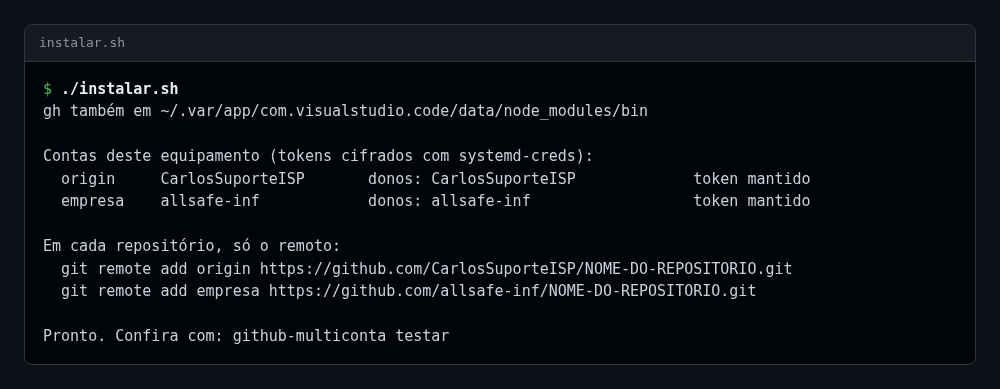
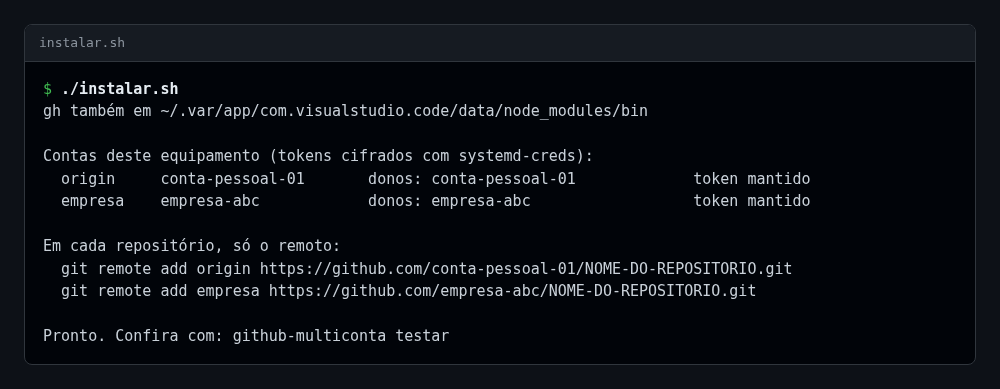
docs: fotos com contas de exemplo e visualizadores sem caminho local
As fotos do terminal passam a mostrar nomes de conta de exemplo e nenhum nome de
repositório; os visualizadores deixam de trazer o caminho local de quem os gerou;
o comando de instalação não cita conta.

Testado: ./testes/testar.sh (108 ok, 0 falha); fotos regeradas da saída real e conferidas uma a uma.

Changed region(s): [[0.155, 0.4319, 0.31, 0.5553], [0.434, 0.4319, 0.589, 0.5553], [0.434, 0.6787, 0.589, 0.7712]]

diff --git a/doc/aplicacao/imagens/visualizador.html b/doc/aplicacao/imagens/visualizador.html
@@ -4,7 +4,7 @@
 <meta charset="utf-8">
 <meta name="viewport" content="width=device-width, initial-scale=1">
 <title>Visualizador de diagramas e imagens</title>
-<!-- Gerado por "/home/carlos/code/Regras AI Sendo Executadas/padrao-diagramas/renderizar.sh". Não edite à mão: a lista é reescrita a cada renderização. -->
+<!-- Gerado por padrao-diagramas/renderizar.sh. Não edite à mão: a lista é reescrita a cada renderização. -->
 <style>
 /* Fundo escuro é o padrão; o botão de tema troca para o claro. */
 :root { --fundo: #0d1117; --painel: #161b22; --borda: #30363d; --texto: #e6edf3; --apagado: #8b949e; --botao: #21262d; --sobre: #30363d; }

diff --git a/doc/diagramas/visualizador.html b/doc/diagramas/visualizador.html
@@ -4,7 +4,7 @@
 <meta charset="utf-8">
 <meta name="viewport" content="width=device-width, initial-scale=1">
 <title>Visualizador de diagramas e imagens</title>
-<!-- Gerado por "/home/carlos/code/Regras AI Sendo Executadas/padrao-diagramas/renderizar.sh". Não edite à mão: a lista é reescrita a cada renderização. -->
+<!-- Gerado por padrao-diagramas/renderizar.sh. Não edite à mão: a lista é reescrita a cada renderização. -->
 <style>
 /* Fundo escuro é o padrão; o botão de tema troca para o claro. */
 :root { --fundo: #0d1117; --painel: #161b22; --borda: #30363d; --texto: #e6edf3; --apagado: #8b949e; --botao: #21262d; --sobre: #30363d; }

diff --git a/doc/imagens/visualizador.html b/doc/imagens/visualizador.html
@@ -4,7 +4,7 @@
 <meta charset="utf-8">
 <meta name="viewport" content="width=device-width, initial-scale=1">
 <title>Visualizador de diagramas e imagens</title>
-<!-- Gerado por "/home/carlos/code/Regras AI Sendo Executadas/padrao-diagramas/renderizar.sh". Não edite à mão: a lista é reescrita a cada renderização. -->
+<!-- Gerado por padrao-diagramas/renderizar.sh. Não edite à mão: a lista é reescrita a cada renderização. -->
 <style>
 /* Fundo escuro é o padrão; o botão de tema troca para o claro. */
 :root { --fundo: #0d1117; --painel: #161b22; --borda: #30363d; --texto: #e6edf3; --apagado: #8b949e; --botao: #21262d; --sobre: #30363d; }

diff --git a/doc/aplicacao/README.md b/doc/aplicacao/README.md
@@ -4,7 +4,7 @@
 
 ## 💡 Em poucas palavras
 
-Cada comando do kit, com a foto da saída real no terminal e a explicação do que ele faz. Nenhum deles mostra token.
+Cada comando do kit, com a foto da saída real no terminal e a explicação do que ele faz. Nenhum deles mostra token. Nas fotos, os nomes das contas foram trocados por nomes de exemplo (`conta-pessoal-01` e `empresa-abc`).
 
 <details>
 <summary>Sumário — clique para expandir</summary>
@@ -21,7 +21,7 @@ Cada comando do kit, com a foto da saída real no terminal e a explicação do q
 
 <a href="imagens/instalar.png"><img src="imagens/instalar.png" alt="Saída do instalar.sh com as duas contas, os tokens mantidos e o comando de remoto de cada conta" width="100%"></a>
 
-<sub><b>v0.2.0</b> · <code>./instalar.sh</code> · captura de 2026-10-09</sub>
+<sub><b>v0.2.1</b> · <code>./instalar.sh</code> · captura de 2026-10-09</sub>
 
 **Para que serve:** ler o `.env` e o `.secrets/`, guardar cada token cifrado e instalar os comandos. Pode ser rodado de novo sempre que uma conta ou um token mudar.
 
@@ -50,7 +50,7 @@ Cada comando do kit, com a foto da saída real no terminal e a explicação do q
 
 <a href="../imagens/terminal-principal.png"><img src="../imagens/terminal-principal.png" alt="Saída de github-multiconta contas e de github-multiconta testar, com git e gh em ok nas duas contas" width="100%"></a>
 
-<sub><b>v0.2.0</b> · <code>github-multiconta contas</code> e <code>testar</code> · captura de 2026-10-09</sub>
+<sub><b>v0.2.1</b> · <code>github-multiconta contas</code> e <code>testar</code> · captura de 2026-10-09</sub>
 
 **Para que serve:** ver quais contas este computador tem e conferir se o `git` e o `gh` respondem com a conta certa em cada uma.
 
@@ -70,7 +70,7 @@ Cada comando do kit, com a foto da saída real no terminal e a explicação do q
 
 <a href="imagens/gh-conta.png"><img src="imagens/gh-conta.png" alt="Quatro comandos do gh, cada um respondendo com a conta do dono citado ou com a conta dita em GH_CONTA" width="100%"></a>
 
-<sub><b>v0.2.0</b> · <code>gh</code> pelo invólucro · captura de 2026-10-09</sub>
+<sub><b>v0.2.1</b> · <code>gh</code> pelo invólucro · captura de 2026-10-09</sub>
 
 **Para que serve:** usar o `gh` sem trocar de login. A conta sai do próprio pedido.
 
@@ -80,8 +80,8 @@ Cada comando do kit, com a foto da saída real no terminal e a explicação do q
 |---|---|---|
 | `gh api user -q .login` | a padrão | Fora de repositório e sem dono no pedido |
 | `GH_CONTA=empresa gh api user -q .login` | a do remoto `empresa` | `GH_CONTA` aceita o dono, o login ou o nome do remoto |
-| `gh repo view <dono>/<repo>` | a do dono | O dono está escrito no pedido |
-| `gh repo list <dono>` | a do dono | O dono sozinho também decide |
+| `GH_REPO=<dono>/<repo> gh api user -q .login` | a do dono | O dono está no repositório indicado; `-R <dono>/<repo>` faz o mesmo |
+| `gh repo list <dono>` | a do dono | O dono sozinho no pedido também decide |
 
 <a name="esquecer"></a>
 
@@ -89,7 +89,7 @@ Cada comando do kit, com a foto da saída real no terminal e a explicação do q
 
 <a href="imagens/esquecer.png"><img src="imagens/esquecer.png" alt="Saída de github-multiconta esquecer seguida de um teste que volta a dar ok" width="100%"></a>
 
-<sub><b>v0.2.0</b> · <code>github-multiconta esquecer</code> · captura de 2026-10-09</sub>
+<sub><b>v0.2.1</b> · <code>github-multiconta esquecer</code> · captura de 2026-10-09</sub>
 
 **Para que serve:** apagar na hora as cópias dos tokens que ficam em memória durante a sessão. O próximo comando decifra de novo, sozinho.
 
@@ -101,7 +101,7 @@ Cada comando do kit, com a foto da saída real no terminal e a explicação do q
 
 <a href="imagens/testes.png"><img src="imagens/testes.png" alt="Fim da bateria de testes, com 108 ok e nenhuma falha" width="100%"></a>
 
-<sub><b>v0.2.0</b> · <code>./testes/testar.sh</code> · captura de 2026-10-09</sub>
+<sub><b>v0.2.1</b> · <code>./testes/testar.sh</code> · captura de 2026-10-09</sub>
 
 **Para que serve:** provar o kit inteiro com contas e tokens fictícios, sem tocar nas contas reais nem no GitHub.
 

diff --git a/README.md b/README.md
@@ -4,7 +4,7 @@
 
 **Várias contas do GitHub no mesmo computador, para `git` e `gh`: a conta certa é escolhida pelo dono do remoto, sem autenticação em nenhuma pasta.**
 
-![Versão](https://img.shields.io/badge/versão-0.2.0-blue)
+![Versão](https://img.shields.io/badge/versão-0.2.1-blue)
 ![Bash](https://img.shields.io/badge/Bash-5.2-4EAA25?logo=gnubash&logoColor=white)
 ![Git](https://img.shields.io/badge/Git-2.47-F05032?logo=git&logoColor=white)
 ![GitHub CLI](https://img.shields.io/badge/GitHub%20CLI-2.46-181717?logo=github&logoColor=white)
@@ -60,7 +60,9 @@ Vale para o `git` e para o `gh`, no terminal, no VS Code e nos agentes de IA (Cl
 
 <a href="doc/imagens/terminal-principal.png"><img src="doc/imagens/terminal-principal.png" alt="Terminal com as contas instaladas e o teste de git e gh em ok nas duas contas" width="100%"></a>
 
-<sub><b>v0.2.0</b> · contas instaladas e teste · captura de 2026-10-09</sub>
+<sub><b>v0.2.1</b> · contas instaladas e teste · captura de 2026-10-09</sub>
+
+Nas fotos, os nomes das contas são de exemplo.
 
 Cada comando, com a foto e a explicação: [comandos, um por um](doc/aplicacao/README.md).
 
@@ -83,7 +85,7 @@ Cada comando, com a foto e a explicação: [comandos, um por um](doc/aplicacao/R
 ## 🚀 Instalação rápida
 
 ```bash
-git clone https://github.com/CarlosSuporteISP/allsafe-git-e-gh-multi-contas.git
+git clone <endereço deste repositório>
 cd allsafe-git-e-gh-multi-contas
 cp .env.example .env    # ajuste as linhas CONTA_<n>
 ./instalar.sh
@@ -336,10 +338,10 @@ A bateria roda em uma pasta de trabalho separada (`$TEMP_DIR/github-multiconta/t
 
 ## 🗺 Plano
 
-O plano de criação e mudança (alternativas, testes, evidências e progresso) é privado e fica em repositório próprio, fora deste. Status: versão 0.2.0 concluída.
+O plano de criação e mudança (alternativas, testes, evidências e progresso) é privado e fica em repositório próprio, fora deste. Status: versão 0.2.1 concluída.
 
 <a name="versao"></a>
 
 ## 🏷 Versão
 
-Versão atual: **0.2.0** · histórico em [CHANGELOG.md](CHANGELOG.md).
+Versão atual: **0.2.1** · histórico em [CHANGELOG.md](CHANGELOG.md).

diff --git a/CHANGELOG.md b/CHANGELOG.md
@@ -2,6 +2,11 @@
 
 ## [Não lançado]
 
+## [0.2.1] - 2026-10-09
+### Alterado
+- Fotos do terminal refeitas com nomes de conta de exemplo e sem nome de repositório.
+- Visualizadores de imagens e de diagramas sem o caminho local de quem os gerou.
+
 ## [0.2.0] - 2026-10-09
 ### Adicionado
 - Qualquer número de contas, uma por linha `CONTA_<n>` no `.env`.
